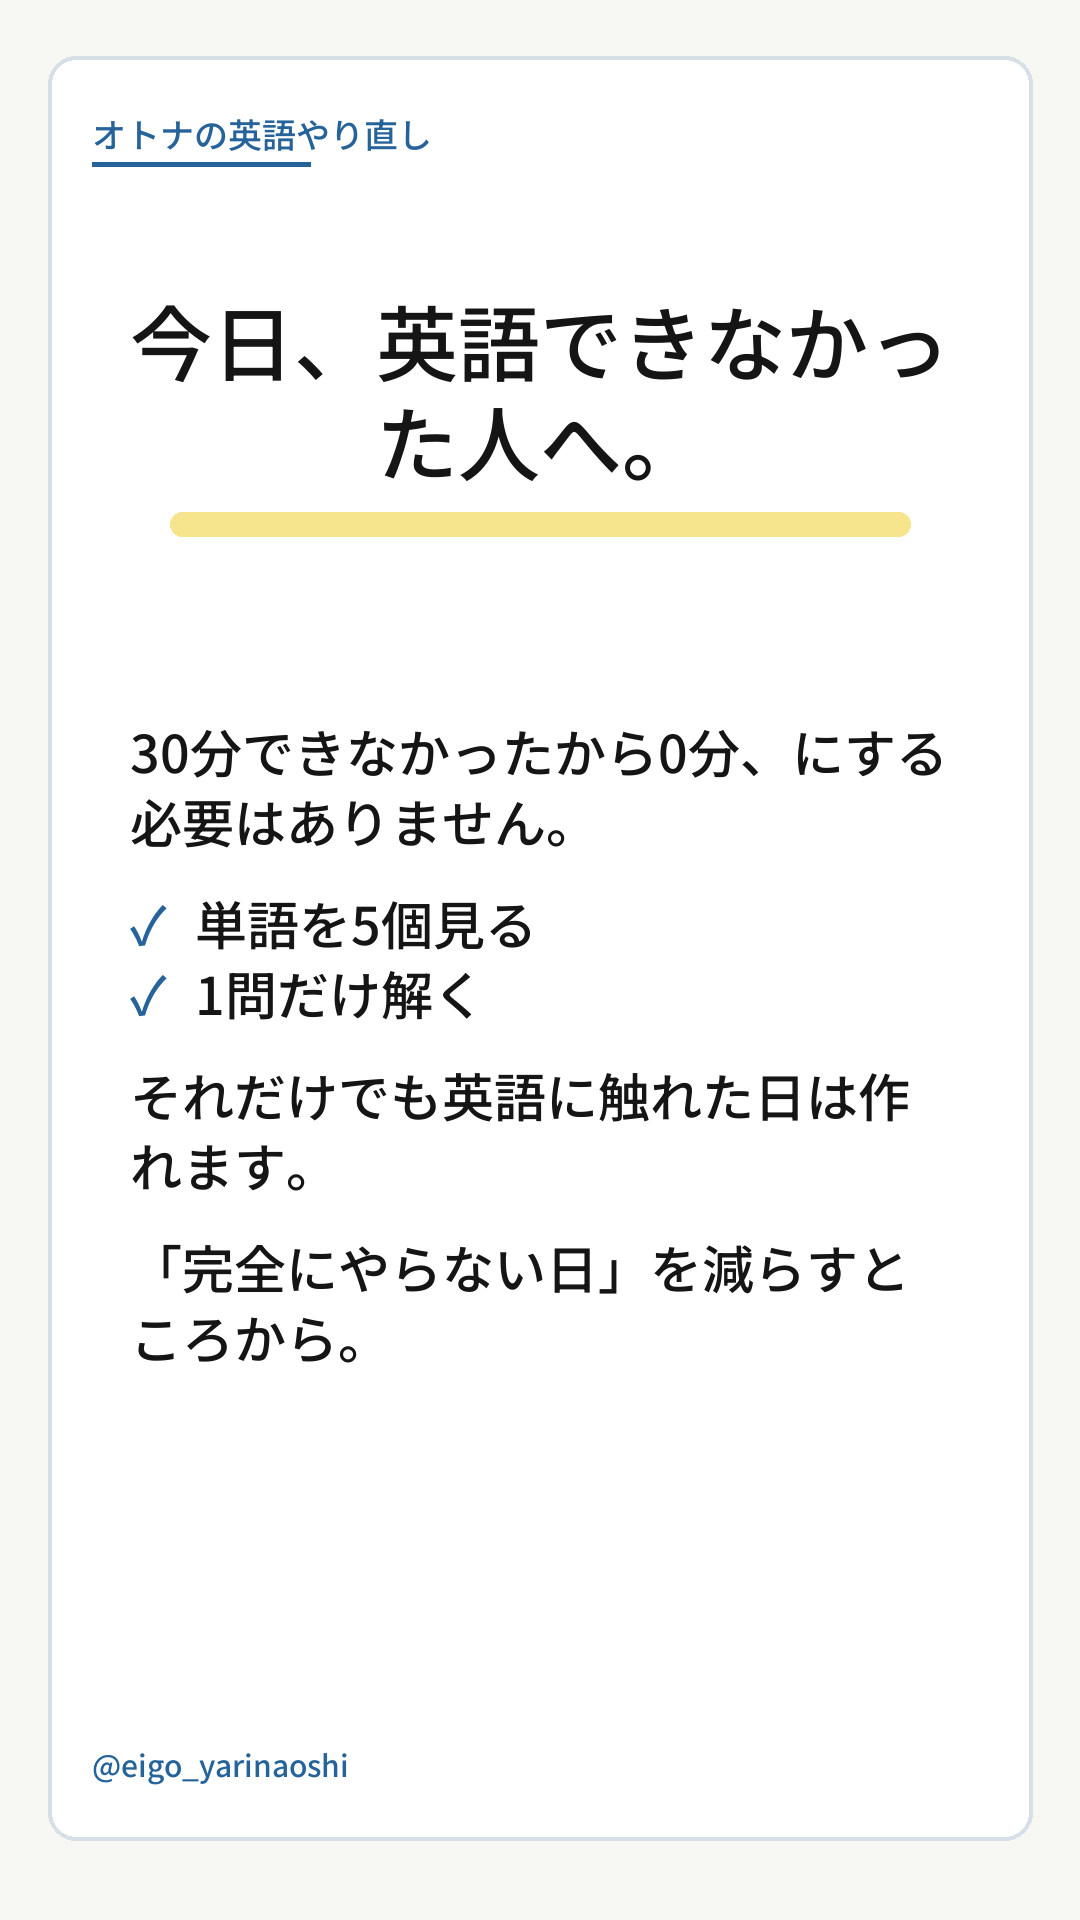
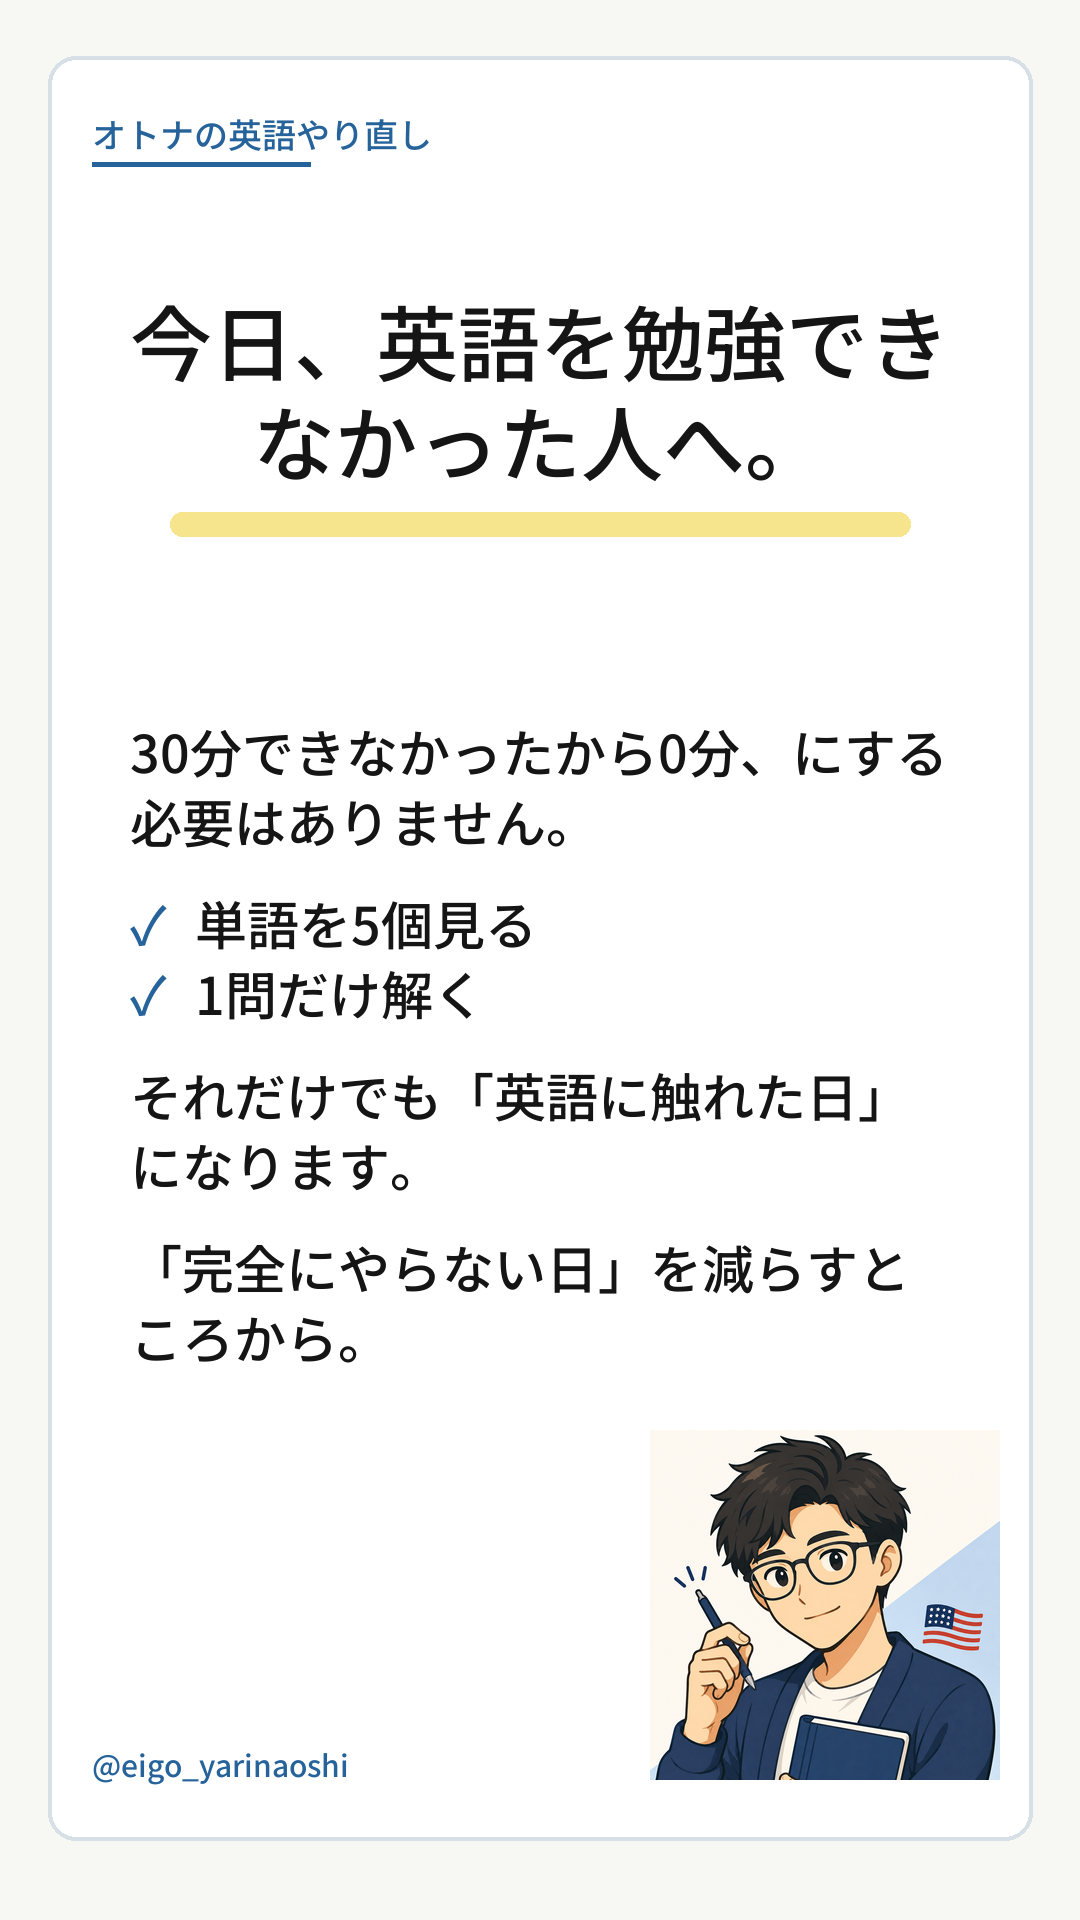
Add fixed Stories guide character

diff --git a/tests/test_story_renderer.py b/tests/test_story_renderer.py
@@ -9,10 +9,11 @@ sys.path.insert(0, str(REPO_ROOT / "src"))
 
 from PIL import Image  # noqa: E402
 
-from instagram_automation.paths import (NORMAL_MASTER_DIR, STORY_IMAGE_DIR,
-                                         THREADS_NORMAL_MASTER_DIR)  # noqa: E402
+from instagram_automation.paths import (NORMAL_MASTER_DIR, STORY_CHARACTER_PATH,
+                                         STORY_IMAGE_DIR, THREADS_NORMAL_MASTER_DIR)  # noqa: E402
 from instagram_automation.renderer import RenderError  # noqa: E402
-from instagram_automation.story_renderer import (CANVAS_SIZE, load_story_master,
+from instagram_automation.story_renderer import (CANVAS_SIZE, character_placement,
+                                                   load_character, load_story_master,
                                                    render_story,
                                                    validate_story_master)  # noqa: E402
 
@@ -31,6 +32,8 @@ class StoryRendererTests(unittest.TestCase):
         threads = json.loads((THREADS_NORMAL_MASTER_DIR / "ENG-100001.json").read_text(encoding="utf-8"))
         self.assertEqual(local, threads)
         self.assertEqual(load_story_master(NORMAL_MASTER_DIR / "ENG-100001.json")["content_id"], "ENG-100001")
+        self.assertEqual(local["story_headline"], "今日、英語を勉強できなかった人へ。")
+        self.assertIn("それだけでも「英語に触れた日」になります。", local["story_body"])
 
     def test_content_mismatch_fails_closed(self):
         local = json.loads((NORMAL_MASTER_DIR / "ENG-100001.json").read_text(encoding="utf-8"))
@@ -50,6 +53,25 @@ class StoryRendererTests(unittest.TestCase):
         result = subprocess.run([sys.executable, str(script), "ENG-100001"], cwd="/private/tmp",
                                 check=True, capture_output=True, text=True)
         self.assertIn("ENG-100001-story.png", result.stdout)
+
+    def test_fixed_character_is_lower_right_without_overlap(self):
+        self.assertTrue(STORY_CHARACTER_PATH.is_file())
+        with Image.open(STORY_CHARACTER_PATH) as source:
+            box = character_placement(source.size)
+            self.assertEqual(box[3], 350)
+            self.assertAlmostEqual(box[2] / box[3], source.width / source.height, places=2)
+        self.assertGreaterEqual(box[0], 500)
+        self.assertGreaterEqual(box[1], 1420)
+        self.assertLessEqual(box[0] + box[2], 1000)
+        self.assertLessEqual(box[1] + box[3], 1780)
+        output = render_story(NORMAL_MASTER_DIR / "ENG-100001.json")
+        with Image.open(output) as rendered:
+            colors = rendered.crop((box[0], box[1], box[0] + box[2], box[1] + box[3])).getcolors(maxcolors=1000000)
+            self.assertIsNotNone(colors)
+            self.assertGreater(len(colors), 100)
+
+    def test_missing_character_keeps_text_only_renderer_available(self):
+        self.assertIsNone(load_character(REPO_ROOT / "assets" / "character" / "missing.png"))
 
 
 if __name__ == "__main__":

diff --git a/src/instagram_automation/story_renderer.py b/src/instagram_automation/story_renderer.py
@@ -1,3 +1,5 @@
+from __future__ import annotations
+
 import json
 import re
 from datetime import datetime
@@ -5,7 +7,8 @@ from pathlib import Path
 
 from PIL import Image, ImageDraw, ImageFont
 
-from .paths import NORMAL_MASTER_DIR, STORY_IMAGE_DIR, THREADS_NORMAL_MASTER_DIR
+from .paths import (NORMAL_MASTER_DIR, STORY_CHARACTER_PATH, STORY_IMAGE_DIR,
+                    THREADS_NORMAL_MASTER_DIR)
 from .renderer import RenderError, _font, _wrap
 
 CANVAS_SIZE = (1080, 1920)
@@ -18,6 +21,9 @@ MARKER_YELLOW = "#F6E58D"
 CONTENT_ID = re.compile(r"^ENG-\d{6}$")
 REQUIRED = {"content_id", "content_type", "theme", "threads_text",
             "story_headline", "story_body", "publish_at"}
+CHARACTER_HEIGHT = 350
+CHARACTER_RIGHT = 1000
+CHARACTER_BOTTOM = 1780
 
 
 def _read_direct(path: Path, expected_dir: Path, label: str) -> dict:
@@ -104,6 +110,34 @@ def _fit_body(draw: ImageDraw.ImageDraw, text: str) -> tuple[ImageFont.FreeTypeF
     raise RenderError("story_body exceeds layout limits")
 
 
+def character_placement(source_size: tuple[int, int]) -> tuple[int, int, int, int]:
+    width, height = source_size
+    if width <= 0 or height <= 0:
+        raise RenderError("character image has invalid dimensions")
+    display_height = CHARACTER_HEIGHT
+    display_width = round(width * display_height / height)
+    if display_width > 400:
+        display_width = 400
+        display_height = round(height * display_width / width)
+    left = CHARACTER_RIGHT - display_width
+    top = CHARACTER_BOTTOM - display_height
+    return left, top, display_width, display_height
+
+
+def load_character(path: Path = STORY_CHARACTER_PATH) -> tuple[Image.Image, tuple[int, int, int, int]] | None:
+    if not path.exists():
+        return None
+    if not path.is_file():
+        raise RenderError(f"character path is not a file: {path}")
+    try:
+        with Image.open(path) as source:
+            placement = character_placement(source.size)
+            resized = source.convert("RGB").resize((placement[2], placement[3]), Image.Resampling.LANCZOS)
+    except OSError as exc:
+        raise RenderError(f"character image is unreadable: {path}") from exc
+    return resized, placement
+
+
 def render_story(master_path: Path) -> Path:
     content = load_story_master(master_path)
     canvas = Image.new("RGB", CANVAS_SIZE, BACKGROUND)
@@ -137,6 +171,11 @@ def render_story(master_path: Path) -> Path:
         else:
             draw.text((130, y), line, font=body_font, fill=TEXT)
         y += body_font.size + 18
+
+    character = load_character()
+    if character is not None:
+        character_image, placement = character
+        canvas.paste(character_image, (placement[0], placement[1]))
 
     draw.text((92, 1742), "@eigo_yarinaoshi", font=_font(30), fill=BLUE)
 

diff --git a/src/instagram_automation/paths.py b/src/instagram_automation/paths.py
@@ -15,6 +15,7 @@ REVIEW_RESULT_DIR = REVIEW_DIR / "results"
 STORY_IMAGE_DIR = REPO_ROOT / "artifacts" / "stories"
 THREADS_REPO_ROOT = WORKSPACE_ROOT / "english-threads-automation"
 THREADS_NORMAL_MASTER_DIR = THREADS_REPO_ROOT / "data" / "master" / "normal"
+STORY_CHARACTER_PATH = REPO_ROOT / "assets" / "character" / "story-guide.png"
 
 
 def require_file(path: Path) -> Path:

diff --git a/README.md b/README.md
@@ -10,6 +10,7 @@ Validated master English-learning content is converted into a pending Instagram 
 - `artifacts/stories/`: fixed output location for rendered Stories images
 - `assets/source/`: problem-specific source images (no directory fallback)
 - `assets/fonts/`: repository-pinned Noto Sans JP font and OFL license
+- `assets/character/story-guide.png`: optional fixed Stories guide character
 - `src/instagram_automation/`: validation, paths, and queue builder
 - `scripts/`: queue generation and dry-run commands
 - `tests/`: standard-library unit tests
@@ -56,7 +57,7 @@ Final results are stored as `data/review/results/<content_id>.json` with only `c
 
 ## Stories renderer
 
-The Stories renderer converts the same normal master used by Threads into a fixed `1080 × 1920` RGB PNG. It uses Pillow and the repository-pinned Noto Sans JP font to draw an off-white outer background, white-board panel, blue accents, one restrained yellow marker line, the fixed label `オトナの英語やり直し`, `story_headline`, mechanically wrapped `story_body`, and the footer `@eigo_yarinaoshi`. It does not use photos, AI image generation, gradients, CTA, or ads.
+The Stories renderer converts the same normal master used by Threads into a fixed `1080 × 1920` RGB PNG. It uses Pillow and the repository-pinned Noto Sans JP font to draw an off-white outer background, white-board panel, blue accents, one restrained yellow marker line, the fixed label `オトナの英語やり直し`, `story_headline`, mechanically wrapped `story_body`, and the footer `@eigo_yarinaoshi`. When `assets/character/story-guide.png` exists, the same fixed character is resized with its aspect ratio preserved and placed at the lower right; when absent, the text-only template still renders. It does not regenerate characters, use AI image generation, gradients, CTA, or ads.
 
 Normal masters are placed directly under `data/master/normal/`. Every required field must exactly match the fixed sibling source at `english-threads-automation/data/master/normal/`; otherwise rendering stops. Headline and body have hard character and layout limits, and the renderer fails closed instead of shrinking below the minimum font size.
 
